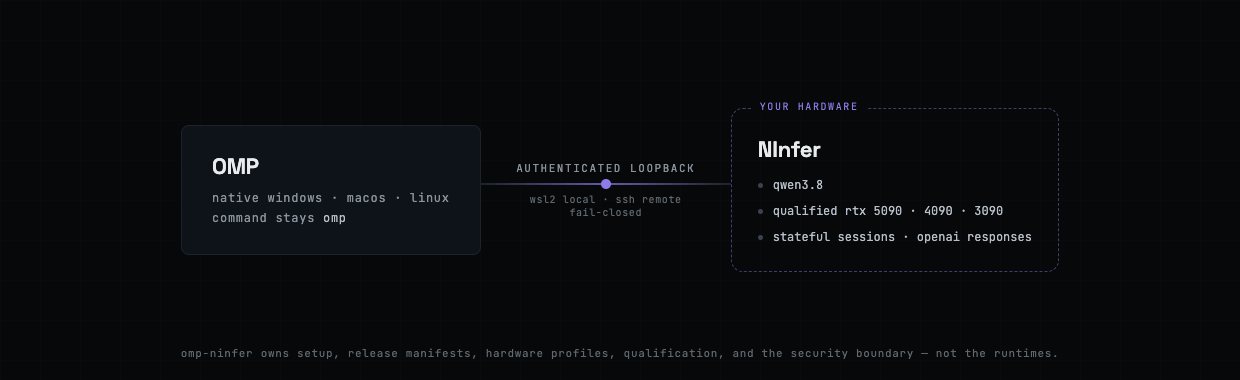
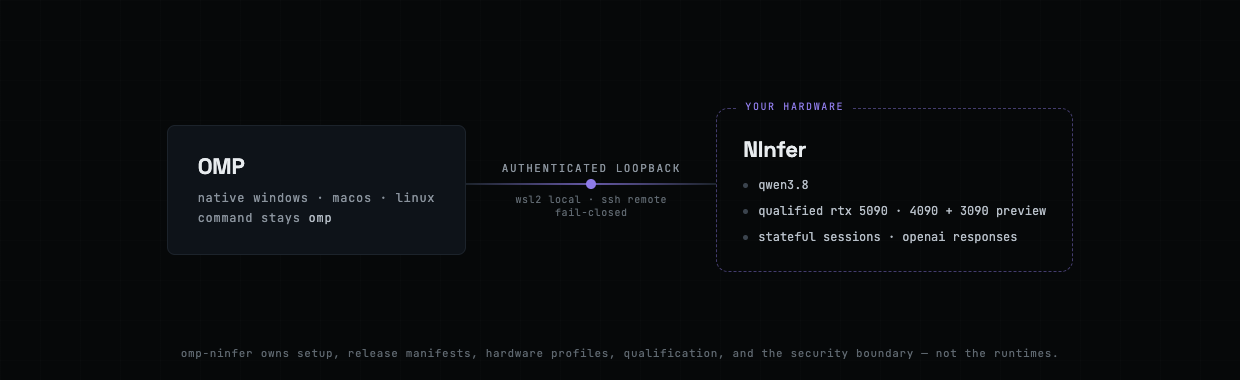
fix(release): correct public acceptance and support claims

diff --git a/assets/architecture.html b/assets/architecture.html
@@ -53,7 +53,7 @@
       <h3>NInfer</h3>
       <div class="rows" style="margin-top:6px;">
         <div class="chip">qwen3.8</div>
-        <div class="chip">qualified rtx 5090 &middot; 4090 &middot; 3090</div>
+        <div class="chip">qualified rtx 5090 &middot; 4090 + 3090 preview</div>
         <div class="chip">stateful sessions &middot; openai responses</div>
       </div>
     </div>

diff --git a/assets/banner.html b/assets/banner.html
@@ -52,7 +52,7 @@
   </div>
   <div class="status">
     <span class="dot"></span>
-    <span>v0.2.0-beta.1 &middot; invited &middot; three qualified gpu lanes</span>
+    <span>v0.2.0-beta.1 &middot; invited &middot; 5090 + 4090 qualified &middot; 3090 preview</span>
     <span style="color:#3A434D;">&middot;</span>
     <span class="kin"></span>
     <span>companion to oh-my-pi</span>

diff --git a/tests/test_compatibility.py b/tests/test_compatibility.py
@@ -73,6 +73,15 @@ class CompatibilityAuthorityTests(unittest.TestCase):
             self.assertFalse(subject["safety"]["cloud_fallback_observed"])
             self.assertFalse(subject["safety"]["production_omp_activation_performed"])
             self.assertTrue(subject["safety"]["runtime_incumbent_restored"])
+            if profile["id"] == "windows-docker-local":
+                self.assertEqual(
+                    subject["live_acceptance"]["runtime_variant"],
+                    "historical-rtx3090-protocol-endpoint",
+                )
+                self.assertFalse(subject["live_acceptance"]["runtime_identity_bound"])
+                self.assertFalse(
+                    subject["live_acceptance"]["profile_runtime_qualified_by_this_receipt"]
+                )
             distribution = profile["client_distribution"]
             self.assertTrue(distribution["published"])
             self.assertEqual(subject["client"]["archive_sha256"], distribution["archive_sha256"])

diff --git a/tests/test_manual_tunnel_scripts.py b/tests/test_manual_tunnel_scripts.py
@@ -14,6 +14,14 @@ EXAMPLES = ROOT / "examples" / "manual-tunnel"
 
 
 class ManualTunnelScriptsTest(unittest.TestCase):
+    def test_start_identity_uses_profile_deployment_identity(self) -> None:
+        source = (ROOT / "examples" / "manual-tunnel" / "start-ninfer.sh").read_text(
+            encoding="utf-8"
+        )
+        self.assertIn('EXPECTED_DEPLOYMENT_PROFILE=${PROFILE_VALUES[2]}', source)
+        self.assertIn('"deployment_profile": (identity.get("deployment_profile"), deployment_profile)', source)
+        self.assertNotIn('"qwen38-5090-v0.1.0"', source)
+
     def test_windows_ready_path_materializes_key_and_refuses_overwrite(self) -> None:
         quickstart = (ROOT / "docs" / "QUICKSTART.md").read_text(encoding="utf-8")
         provider = quickstart.split("### Native Windows OMP", 1)[1].split(

diff --git a/tests/test_public_numbers.py b/tests/test_public_numbers.py
@@ -11,7 +11,14 @@ README = ROOT / "README.md"
 BENCHMARKS = ROOT / "docs" / "BENCHMARKS.md"
 
 
-class PublicNumbersTest(unittest.TestCase):
+class PublicNumbersTests(unittest.TestCase):
+    def test_predecessor_prefix_hit_is_not_rebound_to_v02(self) -> None:
+        readme = (ROOT / "README.md").read_text(encoding="utf-8")
+        performance = (ROOT / "docs" / "PERFORMANCE.md").read_text(encoding="utf-8")
+        self.assertIn("predecessor v0.1 campaign", readme)
+        self.assertIn("not rebind that numeric result", readme)
+        self.assertIn("not rebound as a v0.2 numeric claim", performance)
+
     @classmethod
     def setUpClass(cls) -> None:
         authority = json.loads((ROOT / "compatibility.json").read_text(encoding="utf-8"))

diff --git a/README.md b/README.md
@@ -51,12 +51,13 @@ re-prefills the whole transcript, and reuse of prior computation is a best-effor
 
 OMP NInfer ships the third option as a small set of qualified combinations — OMP, the
 [NInfer](https://github.com/Neroued/ninfer) engine, and one pinned Qwen3.8 27B artifact on an
-RTX 5090, RTX 4090, or RTX 3090 — with three properties the alternatives do not give you together:
+RTX 5090 or RTX 4090, plus a public RTX 3090 preview — with three properties the qualified lanes do
+not give you together elsewhere:
 
 1. **Session state lives on your GPU.** OMP drives NInfer through stateful OpenAI Responses
    (`previous_response_id`). A follow-up turn continues from retained GPU state instead of
-   re-prefilling the session — the qualification observed a 37,591-token prefix served with zero
-   recomputation, and 18 of 31 requests reusing retained state. OMP commits its transcript before
+   re-prefilling the session. The predecessor v0.1 campaign observed a 37,591-token prefix hit, but
+   v0.2 does not rebind that numeric result. OMP commits its transcript before
    advancing provider state, so losing the cache degrades to a replay, never a broken session.
 2. **Private and fail-closed.** Both endpoints bind loopback only; the route is
    bearer-authenticated; the shipped OMP configuration disables model fallback. When your GPU is
@@ -81,7 +82,7 @@ Exact shipped profiles and receipts in
 | RTX 4090 native beta | **52.330 tok/s**, 102K checkpoint restart, exact OMP Golden-equivalent |
 | Serving contract | OpenAI, Anthropic, and Responses protocols; tools; authenticated identity |
 
-Process-restart Responses continuation is a native RTX 3090/4090 variant claim. The primary RTX
+Process-restart Responses continuation is qualified only for the native RTX 4090 variant. The primary RTX
 5090 image keeps restart policy `no`; OMP transcript replay remains its recovery path.
 
 The shipped artifact holds its capability through quantization — 96.67% AIME 2025/2026 and 87.37%
@@ -143,11 +144,11 @@ second gateway sits between OMP and NInfer: [Related work](docs/RELATED_WORK.md)
 | --- | --- | --- | --- | --- |
 | What it is | A small closed set of qualified OMP + runtime + model + GPU combinations with receipts | General local runtime with a large model library | General GGUF serving with the broadest hardware reach | High-throughput general serving engine |
 | Session state across OMP turns | Stateful Responses owned end to end: transcript commits first, GPU-resident baseline advances second; survives OMP exit/resume; forks qualified | Stateless per request; transcript re-sent; internal caching best-effort | Stateless per request; per-slot prefix cache reuses matching prefixes | Stateless core with automatic prefix caching; separate Agentic API gateway adds server-side state |
-| Speculative decoding on the shipped model | Profile-specific: MTP3 on 5090/3090, MTP0 on the qualified 4090 package | Model/config dependent | Optional draft/ngram setups | Optional |
+| Speculative decoding on the shipped model | Profile-specific: MTP3 on 5090, MTP0 on qualified 4090; the 3090 preview has no current performance claim | Model/config dependent | Optional draft/ngram setups | Optional |
 | Vision, tools, thinking | Qualified together in one profile | Varies by model | Varies by model and build | Varies by model |
 | Release discipline | Model SHA-256, image OCI digest, SBOM, client checksums, one ready manifest | Rolling releases, mutable tags | Rolling builds | Rolling releases |
 | Fail-closed OMP route | Shipped and acceptance-tested | Depends on your client config | Depends on your client config | Depends on your client config |
-| Breadth | One pinned artifact and three explicitly qualified GPU lanes | Thousands of models, broad hardware | Any GGUF, broad hardware | Broad models, datacenter and consumer GPUs |
+| Breadth | One pinned artifact, two qualified GPU lanes, and one public preview | Thousands of models, broad hardware | Any GGUF, broad hardware | Broad models, datacenter and consumer GPUs |
 
 Where each shines: **Ollama** is the easiest way to run many models locally. **llama.cpp** has the
 broadest hardware and quant ecosystem. **vLLM** is the throughput and multi-tenant serving

diff --git a/docs/PERFORMANCE.md b/docs/PERFORMANCE.md
@@ -30,7 +30,7 @@ One RTX 5090 (`sm_120a`), shipped v0.2 profile — Qwen3.8-27B `groupwise-int`, 
 | Decode throughput | 235.02 tok/s over 2,048 completion tokens |
 | MTP3 acceptance | 99.87% (1,534/1,536) on the fixed decode workload |
 | 130,048-token exact prefill | 2,180.87 tok/s; 59.80 s server round trip |
-| Largest observed warm-request prefix hit | 37,591 tokens, zero recompute |
+| Stateful Responses | passed; the predecessor v0.1 37,591-token prefix hit is not rebound as a v0.2 numeric claim |
 
 Hardware envelope, measured with the runtime repo's `hbm_bandwidth_probe`: **1,674.5 GB/s**
 sustained pure-read HBM bandwidth on this RTX 5090 — 93.4% of the 1,792 GB/s theoretical peak.
